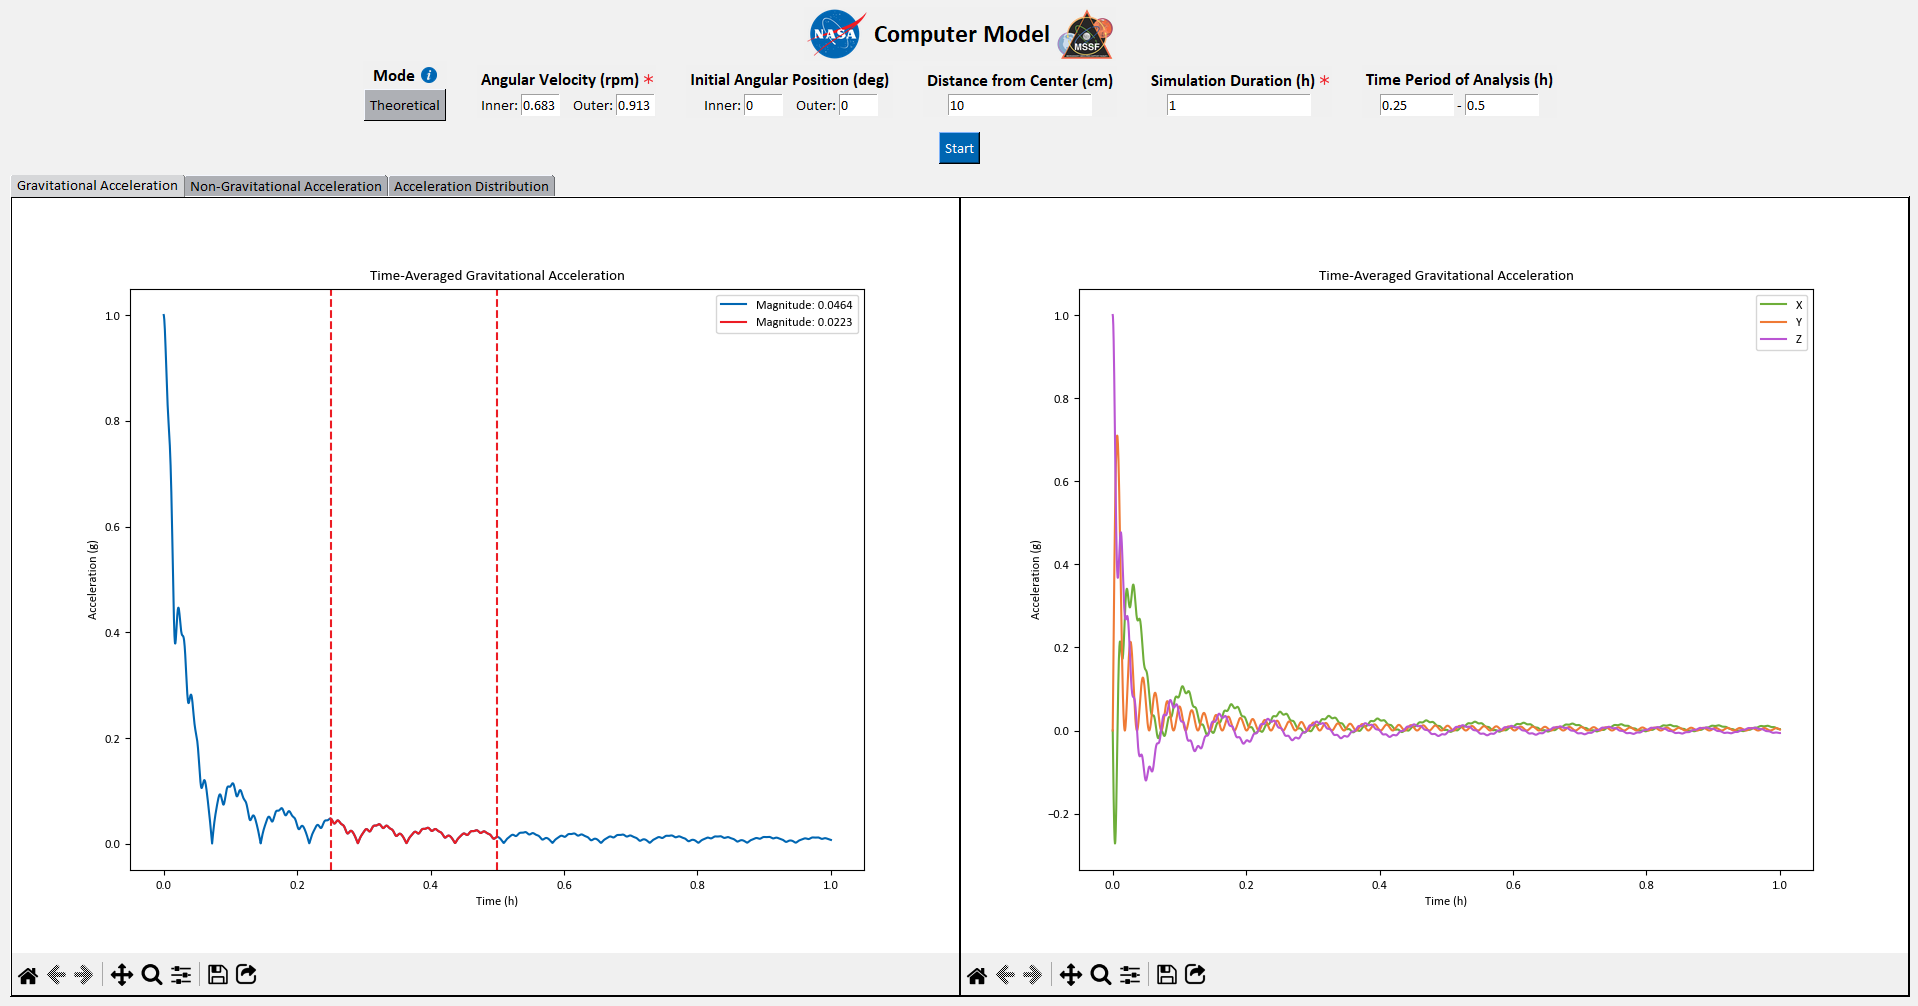
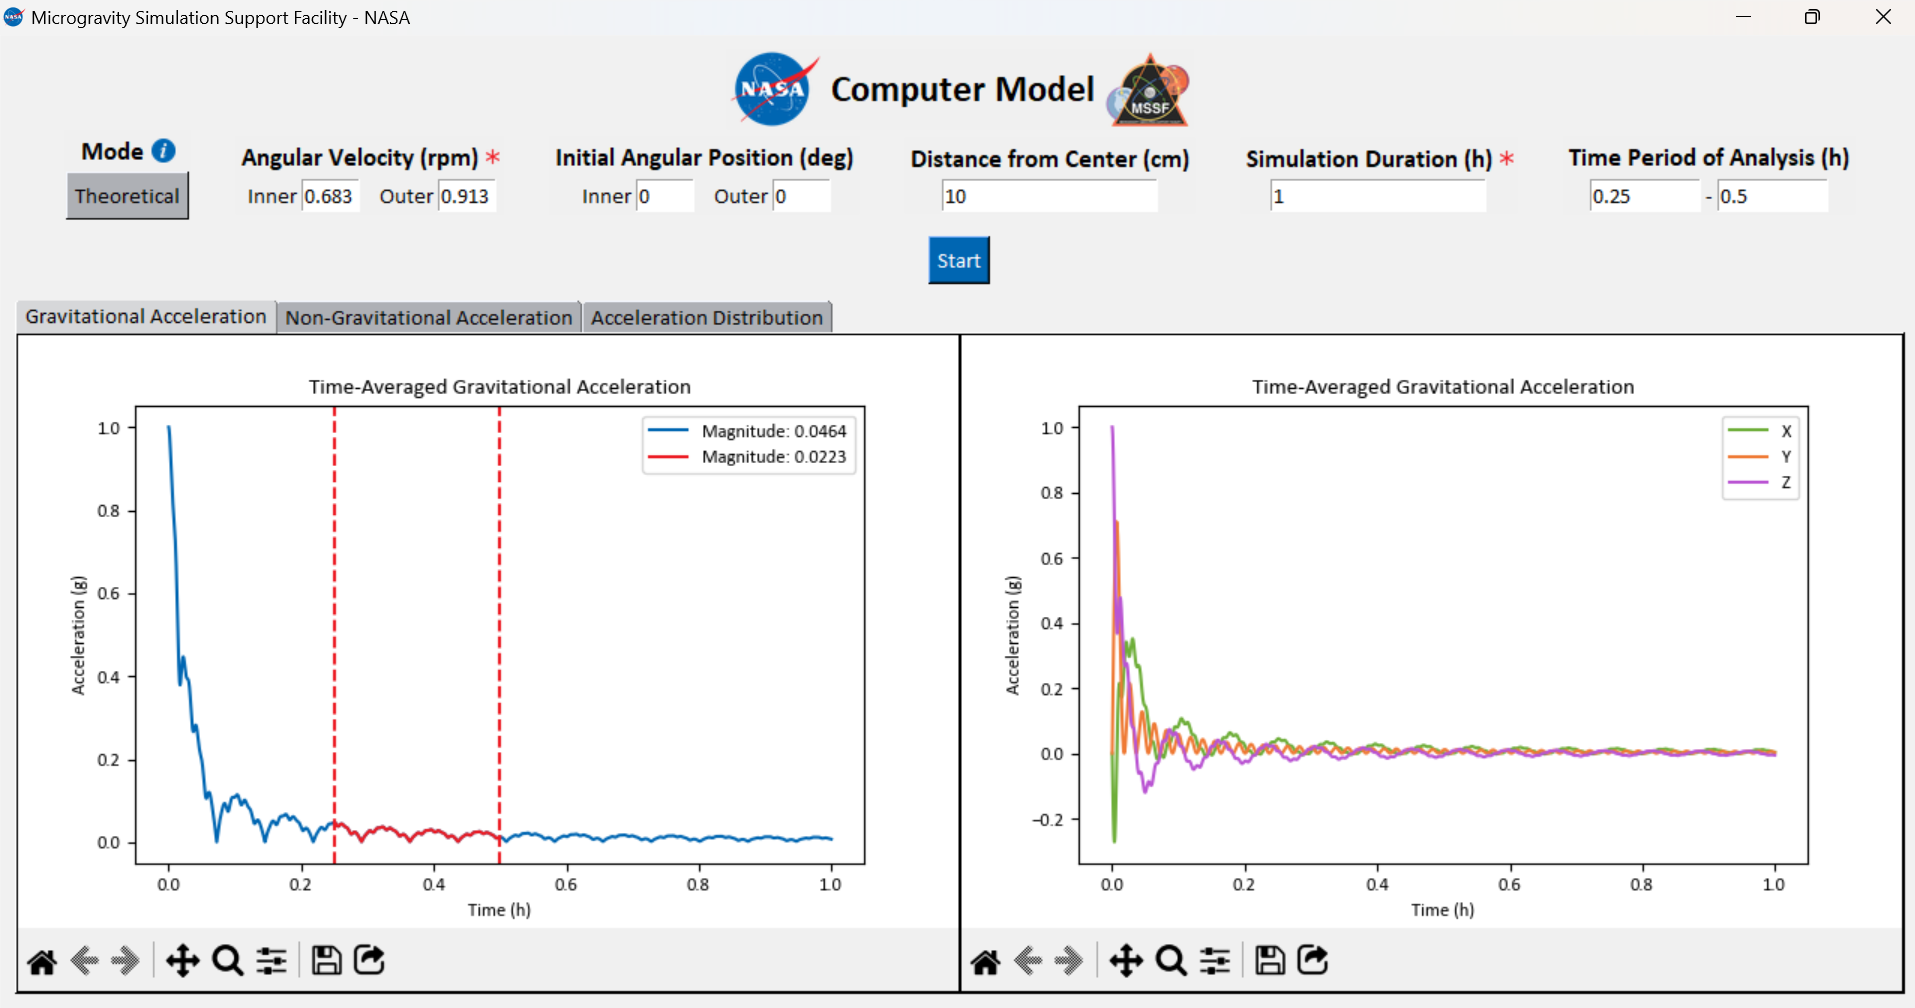
Removed colons

diff --git a/gui.py b/gui.py
@@ -200,11 +200,11 @@ class GUI:
         
         velocity_input_frame = tk.Frame(self.theoretical_angular_velocity_frame)
         velocity_input_frame.pack()
-        self.inner_velocity_label = tk.Label(velocity_input_frame, text="Inner:", font=font_style)
+        self.inner_velocity_label = tk.Label(velocity_input_frame, text="Inner", font=font_style)
         self.inner_velocity_label.pack(side=tk.LEFT)
         self.inner_velocity_entry = tk.Entry(velocity_input_frame, font=font_style, width=5, validate="key", validatecommand=(self.validate_float_cmd, "%P"))
         self.inner_velocity_entry.pack(side=tk.LEFT)
-        self.outer_velocity_label = tk.Label(velocity_input_frame, text="Outer:", font=font_style)
+        self.outer_velocity_label = tk.Label(velocity_input_frame, text="Outer", font=font_style)
         self.outer_velocity_label.pack(side=tk.LEFT, padx=(10, 0))
         self.outer_velocity_entry = tk.Entry(velocity_input_frame, font=font_style, width=5, validate="key", validatecommand=(self.validate_float_cmd, "%P"))
         self.outer_velocity_entry.pack(side=tk.LEFT)
@@ -214,11 +214,11 @@ class GUI:
         tk.Label(self.theoretical_angular_position_frame, text="Initial Angular Position (deg)", font=category_font_style).pack()
         position_input_frame = tk.Frame(self.theoretical_angular_position_frame)
         position_input_frame.pack()
-        self.inner_position_label = tk.Label(position_input_frame, text="Inner:", font=font_style)
+        self.inner_position_label = tk.Label(position_input_frame, text="Inner", font=font_style)
         self.inner_position_label.pack(side=tk.LEFT)
         self.inner_position_entry = tk.Entry(position_input_frame, font=font_style, width=5, validate="key", validatecommand=(self.validate_float_cmd, "%P"))
         self.inner_position_entry.pack(side=tk.LEFT)
-        self.outer_position_label = tk.Label(position_input_frame, text="Outer:", font=font_style)
+        self.outer_position_label = tk.Label(position_input_frame, text="Outer", font=font_style)
         self.outer_position_label.pack(side=tk.LEFT, padx=(10, 0))
         self.outer_position_entry = tk.Entry(position_input_frame, font=font_style, width=5, validate="key", validatecommand=(self.validate_float_cmd, "%P"))
         self.outer_position_entry.pack(side=tk.LEFT)
